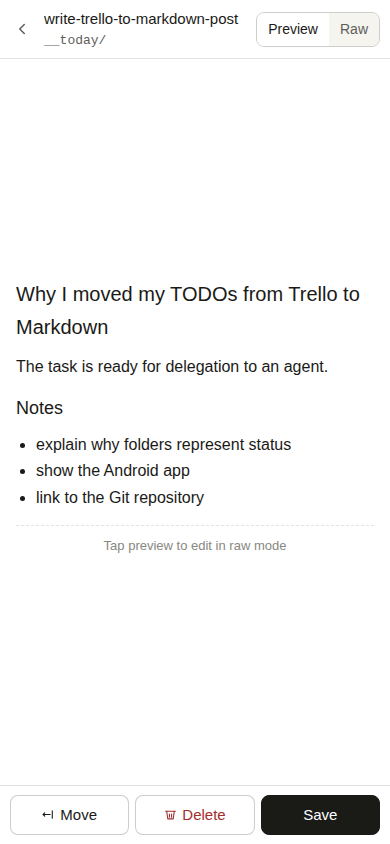
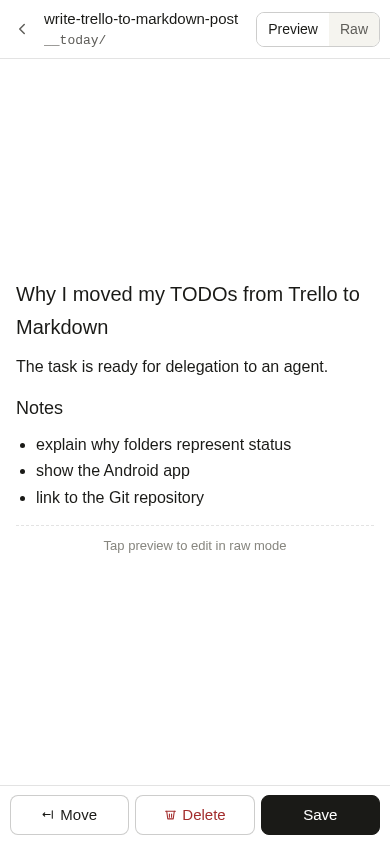
Match current TODO repository structure

diff --git a/src/app/App.tsx b/src/app/App.tsx
@@ -23,14 +23,12 @@ type ActionSheet =
   | null;
 
 const MOVE_SUGGESTIONS: Record<string, string[]> = {
-  "__today": ["__today/tomorrow", "_short-term", "__now"],
-  "__today/tomorrow": ["__today", "_short-term"],
-  "__now": ["__today", "_short-term"],
-  "_short-term": ["_short-term/reviewed", "__today", "__now"],
-  "_short-term/reviewed": ["_short-term", "__today"],
-  "review-every-weekend": ["review-every-weekend/reviewed"],
-  "review-every-weekend/reviewed": ["review-every-weekend"],
-  "review-every-zmonth": ["_short-term"],
+  "__today": ["__tomorrow", "_short-term", "__now"],
+  "__tomorrow": ["__today", "_short-term", "__now"],
+  "__now": ["__today", "__tomorrow", "_short-term"],
+  "_short-term": ["__today", "__tomorrow", "__now"],
+  "review-every-weekend": ["__today", "_short-term", "__now"],
+  "review-every-zmonth": ["_short-term", "__today"],
 };
 
 marked.setOptions({
@@ -48,7 +46,7 @@ function badgeClassName(name: string): string {
     return "folder-badge folder-badge-now";
   }
 
-  if (name === "__today" || name === "tomorrow") {
+  if (name === "__today" || name === "__tomorrow") {
     return "folder-badge folder-badge-today";
   }
 
@@ -58,10 +56,6 @@ function badgeClassName(name: string): string {
 
   if (name.startsWith("review-")) {
     return "folder-badge folder-badge-review";
-  }
-
-  if (name === "reviewed") {
-    return "folder-badge folder-badge-reviewed";
   }
 
   return "folder-badge folder-badge-generic";

diff --git a/e2e/readme-screenshots.spec.ts b/e2e/readme-screenshots.spec.ts
@@ -4,10 +4,10 @@ const files = [
   { path: "__now/fix-production-alert.md", sha: "blob-now" },
   { path: "__today/write-trello-to-markdown-post.md", sha: "blob-post" },
   { path: "__today/review-agent-pr.md", sha: "blob-review" },
-  { path: "__today/tomorrow/book-flights.md", sha: "blob-flights" },
+  { path: "__tomorrow/book-flights.md", sha: "blob-flights" },
   { path: "_short-term/ship-todo-android-app.md", sha: "blob-app" },
-  { path: "_short-term/reviewed/refresh-personal-site.md", sha: "blob-site" },
-  { path: "review-every-weekend/reviewed/plan-next-week.md", sha: "blob-week" },
+  { path: "_short-term/refresh-personal-site.md", sha: "blob-site" },
+  { path: "review-every-weekend/plan-next-week.md", sha: "blob-week" },
 ];
 
 const contents: Record<string, string> = {

diff --git a/src/app/lib/tree.test.ts b/src/app/lib/tree.test.ts
@@ -48,12 +48,14 @@ describe("tree helpers", () => {
       { path: "_short-term/idea.md", sha: "2", mode: "100644" },
       { path: "__today/task.md", sha: "3", mode: "100644" },
       { path: "__now/focus.md", sha: "4", mode: "100644" },
-      { path: "zeta.md", sha: "5", mode: "100644" },
+      { path: "__tomorrow/later.md", sha: "5", mode: "100644" },
+      { path: "zeta.md", sha: "6", mode: "100644" },
     ]);
 
     expect(tree.map((node) => node.path)).toEqual([
       "__now",
       "__today",
+      "__tomorrow",
       "_short-term",
       "review-every-weekend",
       "zeta.md",

diff --git a/src/app/lib/tree.ts b/src/app/lib/tree.ts
@@ -9,20 +9,16 @@ function sortKey(name: string): string {
     return "01";
   }
 
-  if (name === "_short-term") {
+  if (name === "__tomorrow") {
     return "02";
   }
 
+  if (name === "_short-term") {
+    return "03";
+  }
+
   if (name.startsWith("review-")) {
-    return `03_${name.toLowerCase()}`;
-  }
-
-  if (name === "reviewed") {
     return `04_${name.toLowerCase()}`;
-  }
-
-  if (name === "tomorrow") {
-    return "05_tomorrow";
   }
 
   return `10_${name.toLowerCase()}`;

diff --git a/src/app/styles.css b/src/app/styles.css
@@ -320,7 +320,6 @@ button { border: 0; }
 .folder-badge-today { color: #633806; background: #faeeda; }
 .folder-badge-short { color: #0c447c; background: #e6f1fb; }
 .folder-badge-review { color: #3c3489; background: #eeedfe; }
-.folder-badge-reviewed,
 .folder-badge-generic { color: #444441; background: #f1efe8; }
 
 .empty-state {

diff --git a/TODO.md b/TODO.md
@@ -16,10 +16,14 @@ MG: Second select highlight previously selected row. I think this is not necessa
 > Changes: Suppressed `tree-row-active` while `Select` mode is enabled; only rows explicitly checked by the user now receive selection highlighting.
 > Validation: `npm test` passed 11 tests and `npm run build` passed. Extended the real browser E2E to open a file, return to the tree, enter selection mode, and assert that the previously opened row is not active before selecting it. The live UI test passed after restoring the updated environment's missing Playwright Chromium binary and Linux libraries; the unrelated Yarn APT source was temporarily disabled and automatically restored during that environment repair.
 
-## [NEW] Changes in the todo repo structure
+## [DONE 2026-07-29.1] Changes in the todo repo structure
 
 I have removed `reviewed` subdirectories from my todo repo. Also `__today/tomorrow` has been moved to `__tomorrow`
 Please check if we need so update in the app. For sure we should update documentation and and todo-app-test
+
+> Agent: The app did require updates: move suggestions still targeted removed `reviewed/` directories, and the tree sorter did not recognize root-level `__tomorrow`.
+> Changes: Replaced `__today/tomorrow` with `__tomorrow` in workflow suggestions and removed all `reviewed/` destinations/badges. Updated the representative repository layout and review workflow in README, the semantic sort regression, deterministic screenshot fixture, and regenerated all three README screenshots. Treated `todo_app_mobile_prototype_v2.html` as a historical design artifact rather than current documentation. In the separate `todo-app-test` repository, moved `mails.md` into new root `__tomorrow/` and flattened all `_short-term/reviewed/` and `review-every-weekend/reviewed/` files into their parents.
+> Validation: Confirmed the current production `todo` tree has root `__tomorrow` and no tracked `reviewed/` or `__today/tomorrow/` paths. `npm test`, `npm run build`, and the deterministic screenshot test passed. Published the fixture migration to `todo-app-test/main` as commit `7cbf981`, then ran the live API create/edit/move/delete flow successfully from that updated main branch.
 
 ## [NEW] Sorting and expanding
 

diff --git a/README.md b/README.md
@@ -20,17 +20,15 @@ todo/
     flowlite.md
     mails.md
     publishing.md
-    tomorrow/
-      settle-the-tax
+  __tomorrow/
+    settle-the-tax
   _short-term/
-    reviewed/
-      ief.md
-      how-to-live-well.md
-      always-on-agent-with-access-to-repo.md
+    ief.md
+    how-to-live-well.md
+    always-on-agent-with-access-to-repo.md
   review-every-weekend/
-    reviewed/
-      kuba-badania.md
-      health.md
+    kuba-badania.md
+    health.md
 ```
 
 The main status directories have workflow meaning:
@@ -39,13 +37,12 @@ The main status directories have workflow meaning:
 | --- | --- |
 | `__now/` | Work that needs immediate attention. |
 | `__today/` | The active queue for today. |
-| `__today/tomorrow/` | Tasks deliberately deferred to the next daily pass. |
+| `__tomorrow/` | Tasks deliberately deferred to the next daily pass. |
 | `_short-term/` | Near-term work that is not in today's active queue. |
 | `review-every-weekend/` | Tasks and ideas revisited during the weekly review. |
 | `review-every-zmonth/` | Lower-frequency material revisited in a broader monthly review. |
-| `reviewed/` | Items already processed in the current review cycle. |
 
-The `reviewed/` folders make periodic review explicit. At the start of a review pass, files move from `reviewed/` to their parent directory. Each file is then considered again and moved either back to `reviewed/` or into another status directory such as `__today/` or `_short-term/`. The parent directory therefore acts as the current review inbox, while `reviewed/` records progress through that cycle.
+Review directories now contain their files directly; there is no nested `reviewed/` state. During a review, an item either remains in its review directory for the next cycle or moves to an active status such as `__now/`, `__today/`, `__tomorrow/`, or `_short-term/`.
 
 Core workflows for the app:
 
